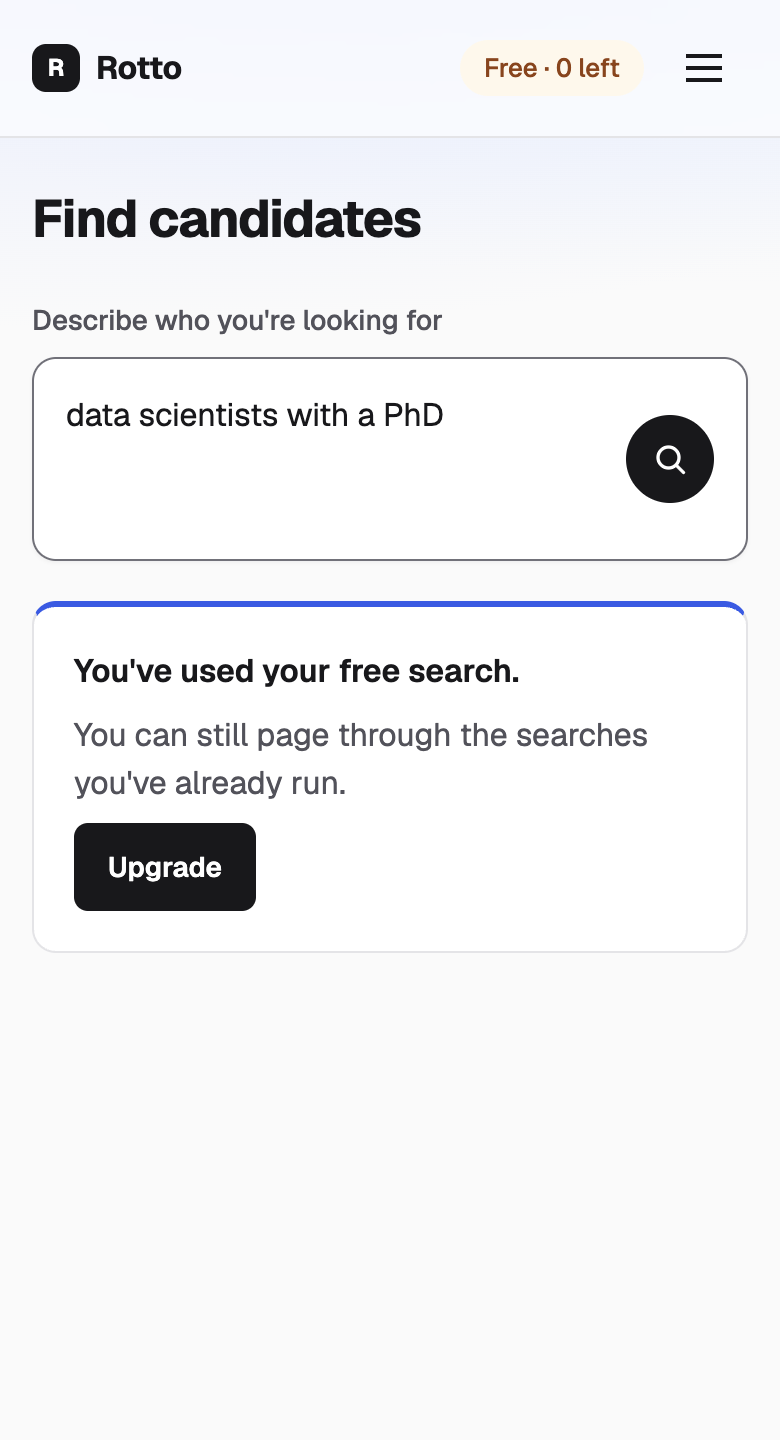
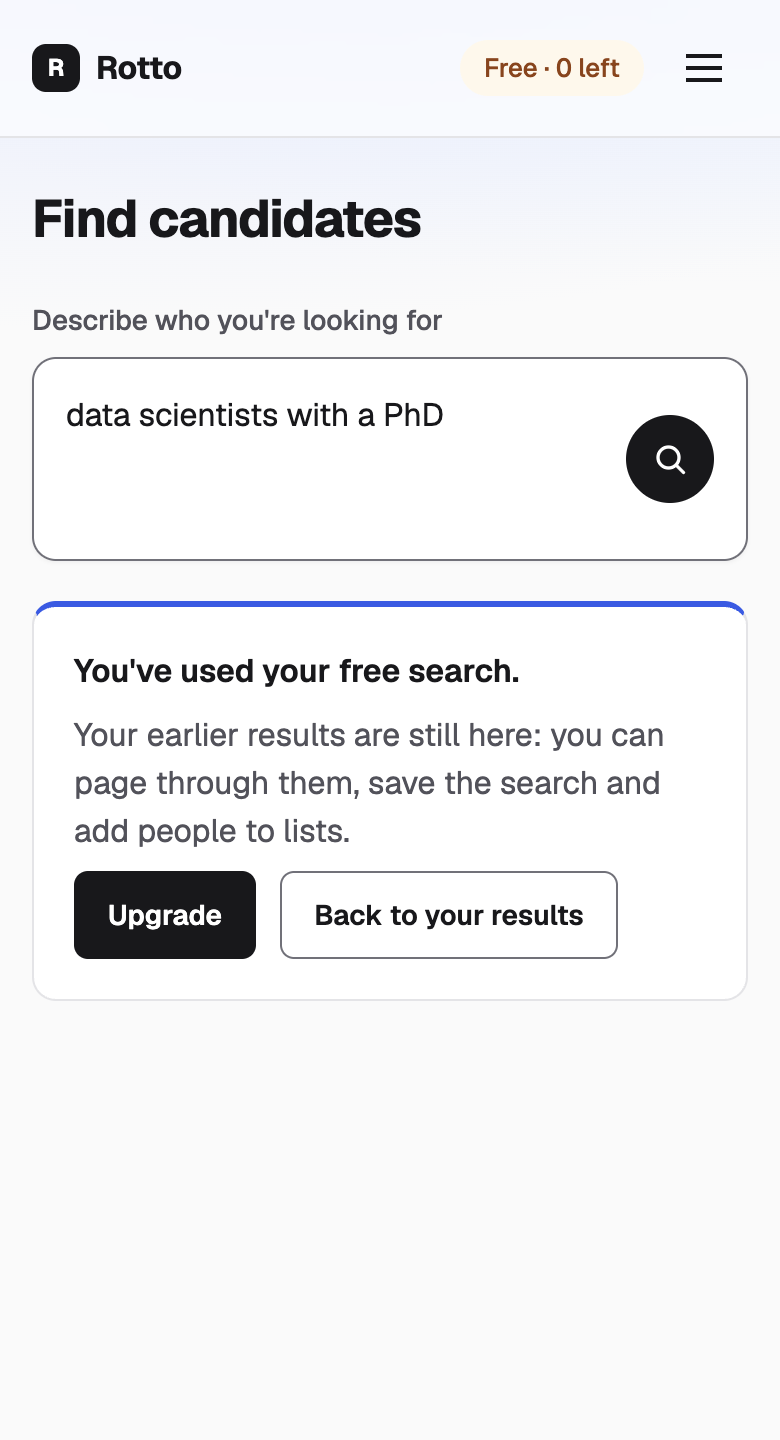
fix(ui): keep a way back to results when the limit is reached
Running edited filters after the free search was used replaced the
results with the limit panel, with no way back except a refresh, so
the earlier search looked lost and could not be saved. The panel now
has "Back to your results", which shows that search again with its
original filters.

The limit messages no longer say "you can still page through the
searches you've already run": there is no screen that lists them.

Changed region(s): [[0.0923, 0.5, 0.8615, 0.6875], [0.4, 0.625, 0.7385, 0.6562]]

diff --git a/app/(app)/search/SearchView.tsx b/app/(app)/search/SearchView.tsx
@@ -85,6 +85,12 @@ function Search() {
     }
   }
 
+  // After a failed new search, back to the results that were on screen, as they were.
+  function backToResults() {
+    setPostError(null);
+    setDraft(null);
+  }
+
   const inputError = postError?.error.status === 400 ? postError.error.message : undefined;
   // An old or mistyped link opens the same welcoming start page as a first visit.
   const missing = searchId !== null && isNotFound(query.error);
@@ -117,7 +123,12 @@ function Search() {
         {searching ? (
           <Searching />
         ) : failed ? (
-          <SearchFailed error={postError.error} onRetry={() => search(postError.brief, postError.filters)} />
+          <SearchFailed
+            error={postError.error}
+            onRetry={() => search(postError.brief, postError.filters)}
+            // The search that was on screen is still stored: closing the message shows it again.
+            onBack={shown ? backToResults : undefined}
+          />
         ) : starting ? null : searchId && !shown ? (
           query.error ? (
             <LoadFailed onRetry={query.reload} />
@@ -206,7 +217,7 @@ function Welcome({ onPick }: { onPick: (brief: string) => void }) {
       {plan?.plan === "free" && (
         <p className={styles.planNote}>
           {plan.searches_remaining === 0
-            ? "You've used your free search. You can still page through searches you've already run."
+            ? "You've used your free search. Upgrade to search again. Your shortlists and saved searches stay as they are."
             : `On the free plan you have ${plan.searches_remaining} ${
                 plan.searches_remaining === 1 ? "search" : "searches"
               }. Paging through its results doesn't use another.`}
@@ -456,11 +467,27 @@ function candidateHref(candidateId: string, page: SearchPage): string {
 }
 
 // A new search failed (LLD 6.6, 6.7).
-function SearchFailed({ error, onRetry }: { error: ApiError; onRetry: () => void }) {
+function SearchFailed(props: { error: ApiError; onRetry: () => void; onBack?: () => void }) {
+  const { error, onRetry, onBack } = props;
   if (error.code === "search_limit_reached") {
     return (
-      <StatePanel tone="limit" title="You've used your free search." action={<UpgradeButton />}>
-        You can still page through the searches you&apos;ve already run.
+      <StatePanel
+        tone="limit"
+        title="You've used your free search."
+        action={
+          <div className={styles.panelAction}>
+            <UpgradeButton />
+            {onBack && (
+              <Button variant="secondary" onClick={onBack}>
+                Back to your results
+              </Button>
+            )}
+          </div>
+        }
+      >
+        {onBack
+          ? "Your earlier results are still here: you can page through them, save the search and add people to lists."
+          : "Upgrade to search again. Your shortlists and saved searches stay as they are."}
       </StatePanel>
     );
   }

diff --git a/cypress/e2e/correct-search.cy.ts b/cypress/e2e/correct-search.cy.ts
@@ -166,5 +166,23 @@ for (const viewport of VIEWPORTS) {
       cy.get("button[aria-label='Remove City: New York']").click();
       cy.get("[role=status]").should("contain", "You've used your free search, so it can't run on the free plan.");
     });
+
+    it("gives a way back to the results when edited filters hit the free limit", () => {
+      openSearch();
+      cy.get("button[aria-label='Remove City: New York']").click();
+      cy.intercept("POST", "/api/search", {
+        statusCode: 402,
+        body: { error: { code: "search_limit_reached", message: "You've used your free search." } },
+      });
+      cy.contains("button", "Run search").click();
+      cy.contains("h2", "You've used your free search.").should("be.visible");
+      cy.contains("Your earlier results are still here").should("be.visible");
+      checkAccessibility();
+
+      cy.contains("button", "Back to your results").click();
+      cy.contains("h2", "You've used your free search.").should("not.exist");
+      cy.get("button[aria-label='Remove City: New York']").should("be.visible"); // the edit is undone
+      cy.contains("button", "Save search").should("be.visible");
+    });
   });
 }

diff --git a/docs/LLD.md b/docs/LLD.md
@@ -764,7 +764,7 @@ Re-running a saved search from `/saved-searches` posts its brief and filters, th
 | `ApiError` | Shown |
 |---|---|
 | `401` | redirect to sign-in (handled by `api.ts`) |
-| `402 search_limit_reached` | the limit panel with Upgrade, in place of results |
+| `402 search_limit_reached` | the limit panel with Upgrade, in place of results; when a search was on screen, also **Back to your results** |
 | `404 not_found` | a not-found message for that page |
 | `400 invalid_request` | the message next to the input |
 | `503 search_unavailable` | error panel with Try again (copy in 6.7) |
@@ -802,7 +802,7 @@ Breakpoints: phone below 640 px, desktop from 1024 px. Content max 1040 px wide.
 | No matches | "No candidates match all of these filters. Try removing a filter." |
 | Unsupported ask | "Couldn't filter on: {items}. We're showing nobody rather than the wrong people." Understood filters stay visible, with **Search without these** to run only them (a new search) |
 | No filters understood | "We couldn't find any requirement in that brief. Try a role, skill, location or seniority." |
-| `402` | "You've used your free search." + Upgrade. Paging and shortlisting earlier searches still work |
+| `402` | "You've used your free search." + Upgrade, and that shortlists and saved searches stay as they are. If a search was on screen when the limit was hit (edited filters, "Search without these" or a new brief), the message says its results are still there and **Back to your results** shows it again with its original filters |
 | `503` | "Search is unavailable right now. Your search wasn't used." + Try again |
 | `500`, network | "Something went wrong." + Try again |
 | No search yet, or `404` on `?id=` (an old or wrong link) | The start page, with no error message. With nothing saved: "Find the right people by describing them", one line on what happens, and three example briefs (clicking one fills the box without searching). With saved searches: straight to "Saved searches" and "Shortlists", each showing its 2 newest as tiles (a saved search opens the Saved searches page, a list opens that list) with "View all (n)" at the end of the row. On the free plan, how many searches are left |

diff --git a/docs/TESTING.md b/docs/TESTING.md
@@ -42,7 +42,7 @@ Each spec runs at desktop width and at 390 px, with a WCAG 2.1 AA `cy.checkA11y(
 | `sign-in.cy.ts` | sign in, wrong password, signed-out redirect back to the page asked for, Search after signing out and in again, plan in the header |
 | `search.cy.ts` | a real brief to filter tags and ranked results, paging, "Couldn't filter on" |
 | `search-states.cy.ts` | loading skeleton, results, refresh, unsupported, no requirement, nobody matches, 402, 503 with Try again, 500, 400, welcome |
-| `correct-search.cy.ts` | remove, add and change filter tags; years and skills; undo; the free-plan notice |
+| `correct-search.cy.ts` | remove, add and change filter tags; years and skills; undo; the free-plan notice; back to the results after hitting the free limit |
 | `candidate.cy.ts` | the candidate page, opening it from anywhere on a result card (a real click), back to results, not found |
 | `shortlists.cy.ts` | add from results and the candidate page, the "✓ On {list}" label and ticks on results, the newest lists on the search start page, a missing name, keyboard-only add with real key presses (`cypress-real-events`), open, remove, rename, delete, not found, phone menu |
 | `saved-searches.cy.ts` | save from results, the newest saved searches on the search start page, run on the free plan, used-up free search, delete |

diff --git a/docs/IMPLEMENTATION_PLAN.md b/docs/IMPLEMENTATION_PLAN.md
@@ -155,6 +155,7 @@ Branch `s12-submission-fixes`. NFR5, NFR6, FR4, FR5. LLD 1.1, 1.5, 1.6, 3.3, 5.3
   - `docs: cut README to one page and move review notes to docs/REVIEWING.md`
   - `docs: align the LLD, architecture and testing docs with the code`
   - `test: remove tests that repeat other tests`
+  - `fix(ui): keep a way back to results when the limit is reached`
 
 ## Risks
 
